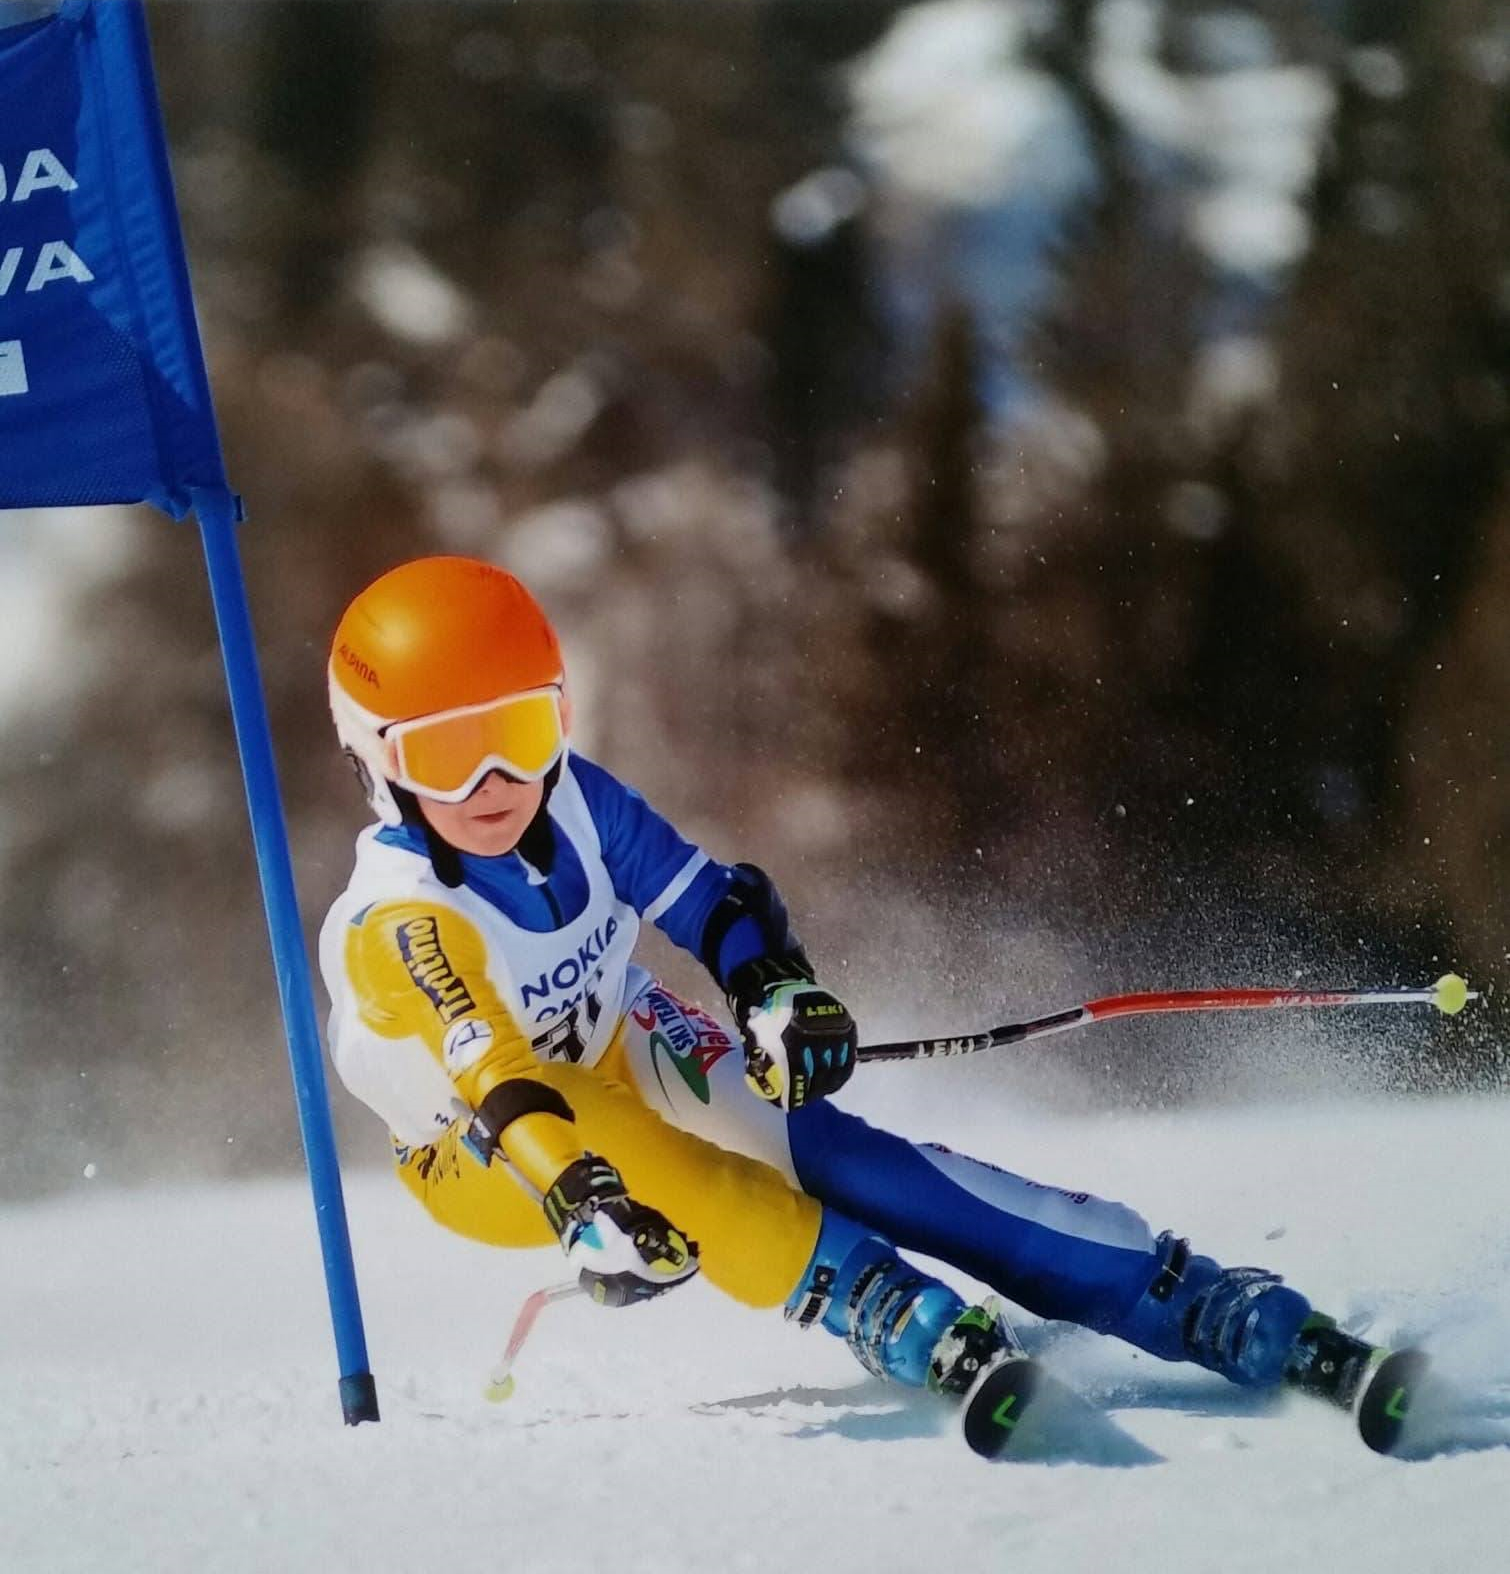
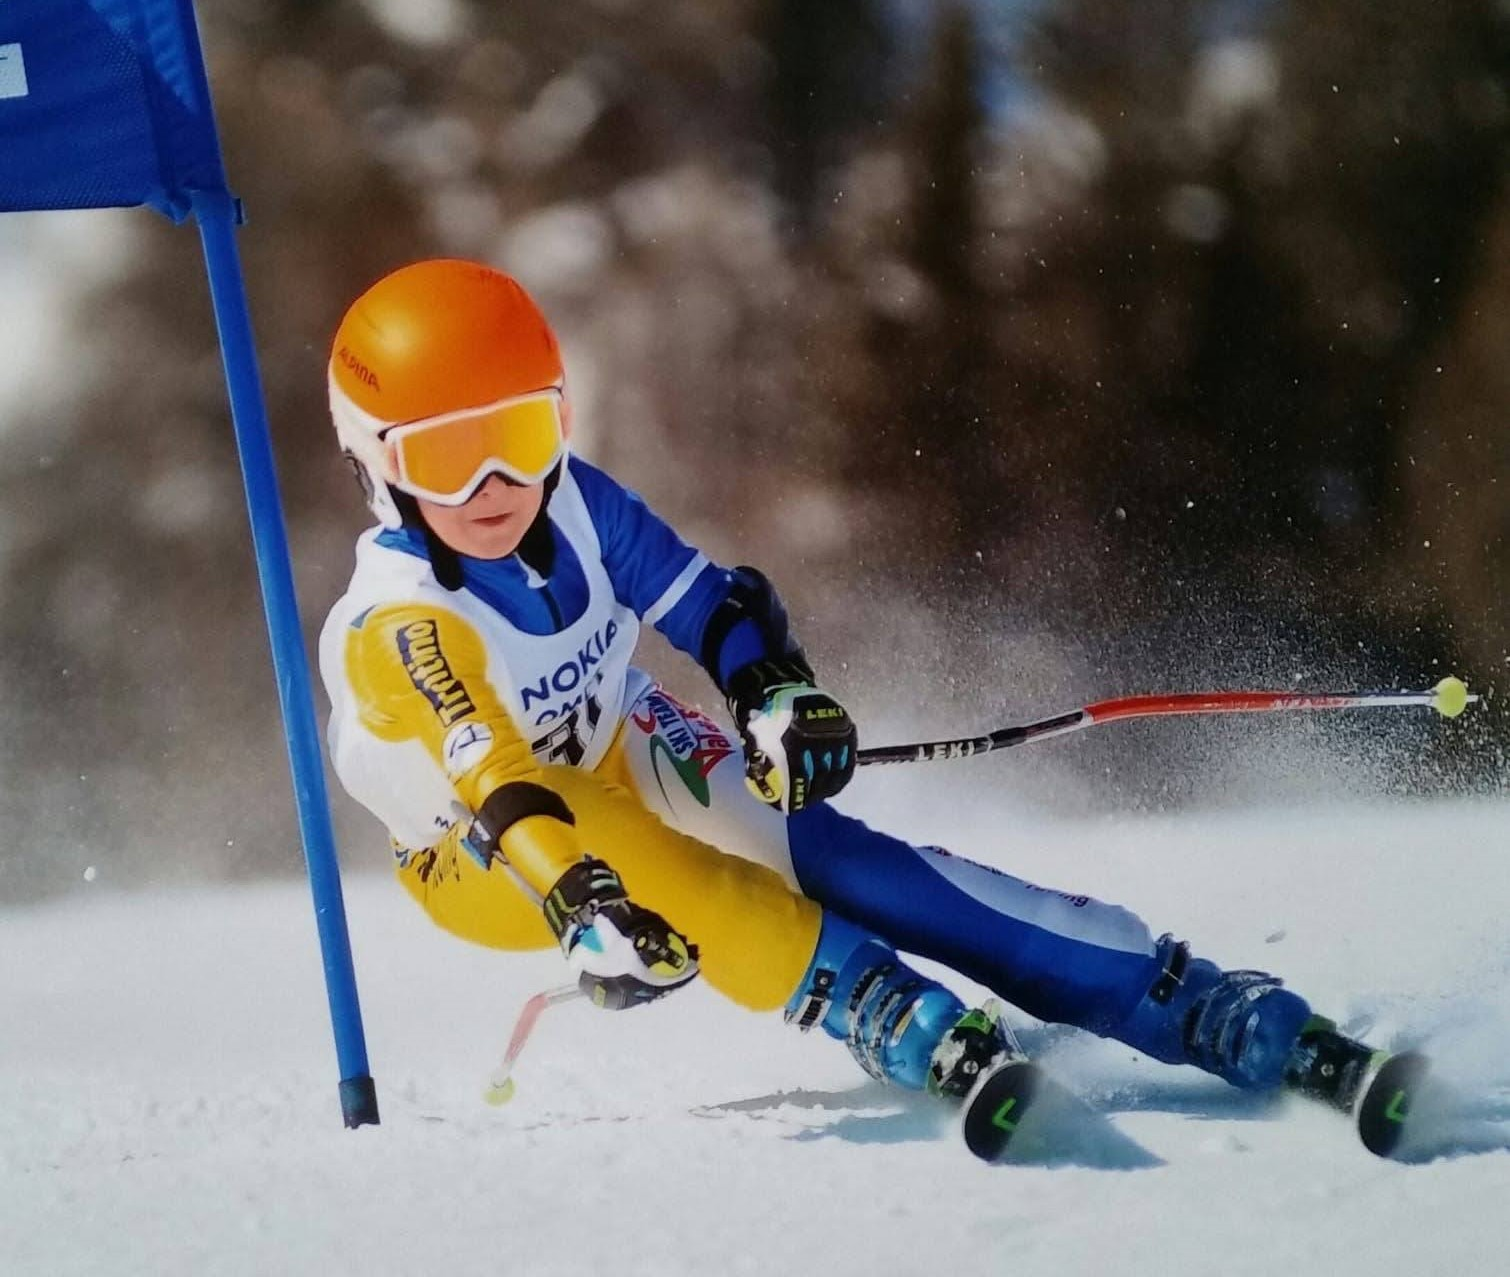
img attività

diff --git a/src/static/pages/index.html b/src/static/pages/index.html
@@ -144,13 +144,11 @@
                         </div>
 
                     </div>
-                    <div class="dx" style="margin-left: 3%;">
-                        <img src="\static\media\images\promozionali1.jpg">
+                    <div class="dx" style="margin-left: 3%; background-image: url('/static/media/images/promozionali1.jpg');">
                     </div>
                 </div>
                 <div class="sez2">
-                    <div class="dx" style="margin-right: 3%;">
-                        <img src="\static\media\images\Attivita.jpg">
+                    <div class="dx" style="margin-right: 3%;     background-image: url('/static/media/images/Attivita.jpg');">
                     </div>
                     <div class="sx" style="margin-left: 3%;">
                         <div class="content" style="display: flex; flex-direction: column; text-align:right; align-items: flex-end;">
@@ -193,7 +191,7 @@
                             </div>
                         </div>
                     </div>
-                    <div class="dx" style="margin-left: 3%;">
+                    <div class="dx" style="margin-left: 3%; background-color: black;">
 
                     </div>
                 </div>

diff --git a/src/static/style/style.css b/src/static/style/style.css
@@ -378,9 +378,10 @@ body {
 .attivita .main .sez .dx,
 .attivita .main .sez2 .dx,
 .attivita .main .sez3 .dx{
-    background-color: #000000;
+    background-position: center;
+    background-size: cover;
     height: 100%;
-    width: 40%;
+    width: 45%;
 }
 .attivita .main .sez .sx .content .titoletto,
 .attivita .main .sez2 .sx .content .titoletto,
